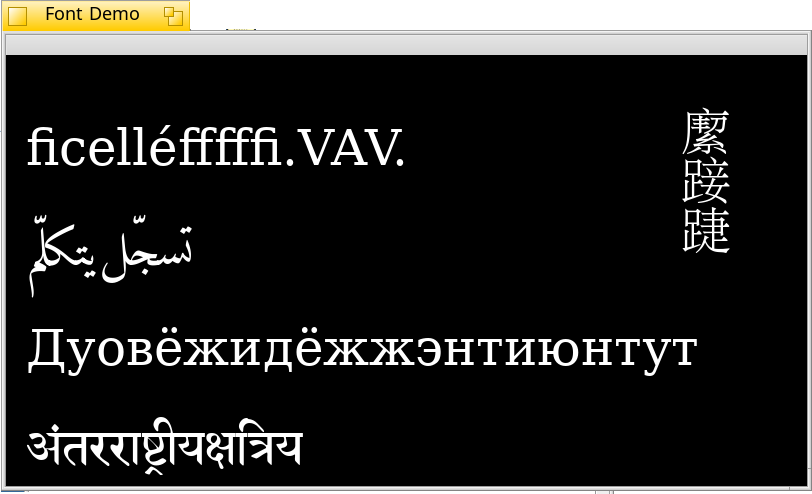
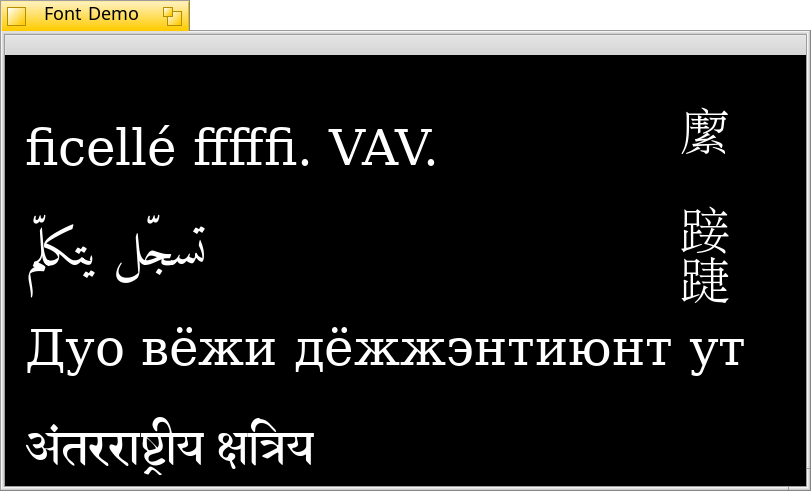
Update blog post harfbuzz report 3 (#90)
* Removed space issue

* Link update

diff --git a/content/blog/digib0y/2017-06-22_[gsoc2017_harfbuzz]_report_3.md b/content/blog/digib0y/2017-06-22_[gsoc2017_harfbuzz]_report_3.md
@@ -9,9 +9,8 @@ tags = ["haiku", "software", "GSoC2017", "students", "summerofcode", "google", "
 <p>Hi all,</p>
 <p>This is my first post during the coding period of GSoC 2017. I have been working on a demo application which renders text using the harfbuzz library.The work on application started before the coding period. You can find the application <a href="https://github.com/digib0y/DemoHarfbuzzApp">here</a>.</p>
 <p>The work on application started before the coding period, but now the application is successfully running(Thanks to stippi!).</p>
-<p>I pointed out few issues in one of my <a href="https://www.haiku-os.org/blog/digib0y/2017-06-01_gsoc_2017_harfbuzz_week_3_4_of_community_bond/">previous blog </a>post. I have used the same words in Hindi for rendering in application. You will see that it is being rendered properly.</p>
+<p>I pointed out few issues in one of my <a href="https://www.haiku-os.org/blog/digib0y/2017-05-19_gsoc_2017_harfbuzz_week_1_2_of_community_bond/">previous blog </a>post. I have used the same words in Hindi for rendering in application. You will see that it is being rendered properly.</p>
 <p>I would take the time out and say the rendering is more accurate and better when compared to rendering on Ubuntu 16.04.</p>
 <p>I request if anyone here can read in languages in the screenshot below, let me know the feedback on their rendering.</p><br /><br />
 <img src="/files/blog/digib0y/app_ss.png" alt="Harfbuzz App Rendering" class="img-responsive center-block" /><br /><br />
-<p>Spaces between the words are missing, will be fixed soon :)</p>
 <p>That is all for now, more blog post with updates coming soon..)</p>
